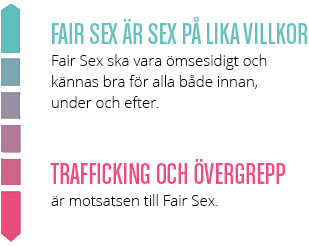
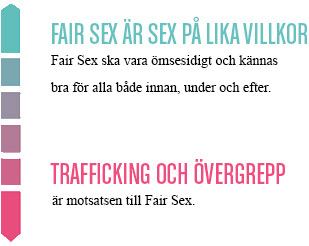
Ruined the look with Times new roman :-)

Changed region(s): [[0.1456, 0.2276, 0.9029, 0.4553], [0.1456, 0.7683, 0.699, 0.8537]]

diff --git a/css/gumby.css b/css/gumby.css
@@ -2080,7 +2080,9 @@ width:280px; */ padding-top: 0px; padding-left: 0px; padding-right: 20px; }
 
 .visitedChapter { background-color: white; color: #000; }
 
-.index_bg { background-color: #FFF; color: #313131; height: 100%; font-size: 14px; font-family: 'Open Sans', sans-serif; }
+.index_bg { background-color: #FFF; color: #313131; height: 100%; font-size: 14px; font-family: 'Times New Roman', Georgia, serif; }
+
+.index_bg p { font-family: 'Times New Roman', Georgia, serif; }
 
 .index_imgcenter { text-align: center; padding-right: 22px; }
 
@@ -2156,7 +2158,7 @@ width:280px; */ padding-top: 0px; padding-left: 0px; padding-right: 20px; }
 
 .index_container, .fairsex_container, .outro_container { background: url(../img/webpages/bgbig.jpg); background-repeat: no-repeat; background-position: center 0px; height: 77%; max-height: 660px; overflow: hidden; }
 
-.small_logotext { font-size: 9px; }
+.small_logotext { font-size: 10px; }
 
 .index_container a, .fairsex_container a, .outro_container a { color: #99035D; }
 
@@ -2202,7 +2204,7 @@ width:280px; */ padding-top: 0px; padding-left: 0px; padding-right: 20px; }
 
 .outro_container { height: 860px; max-height: 2000px; }
 
-.outro_links { padding-top: 10px; }
+.outro_links { padding-top: 30px; }
 
 .outroright { text-align: right; }
 @media only screen and (max-width: 960px) { .outroright { text-align: center; } }
@@ -2212,7 +2214,9 @@ width:280px; */ padding-top: 0px; padding-left: 0px; padding-right: 20px; }
 .outro_logos { display: inline; }
 @media only screen and (max-width: 960px) { .outro_logos { display: block; } }
 
-.agentbody_bg { background: url(../img/webpages/agent_bg.jpg); background-repeat: repeat-y; background-position: center; font-size: 12px; font-family: 'Open Sans', sans-serif; color: #000; }
+.agentbody_bg { background: url(../img/webpages/agent_bg.jpg); background-repeat: repeat-y; background-position: center; font-size: 14px; font-family: 'Times New Roman', Georgia, serif; color: #000; }
+
+.agentbody_bg p { font-family: 'Times New Roman', Georgia, serif; }
 
 .agent_bliagentleft { padding-top: 50px; font-size: 20px; line-height: 32px; }
 

diff --git a/sass/_custom.scss b/sass/_custom.scss
@@ -871,8 +871,11 @@ transform: scale(1,1);
   color:#313131;
   height:100%;
   font-size: 14px;
-  font-family: 'Open Sans', sans-serif;
+  font-family: 'Times New Roman', Georgia, serif;
 
+ }
+ .index_bg p {
+   font-family: 'Times New Roman', Georgia, serif;
  }
  .index_imgcenter {
   text-align: center;
@@ -1152,7 +1155,7 @@ background-position: center;
 
 }
 .small_logotext {
-  font-size: 9px;
+  font-size: 10px;
 }
 
 .index_container  a {
@@ -1266,7 +1269,7 @@ max-height: 2000px;
   
  }
  .outro_links{
-  padding-top: 10px;
+  padding-top: 30px;
 
    
  }
@@ -1293,11 +1296,14 @@ max-height: 2000px;
   background: url(../img/webpages/agent_bg.jpg);
   background-repeat: repeat-y;
   background-position: center;
-  font-size: 12px;
-  font-family: 'Open Sans', sans-serif;
+  font-size: 14px;
+  font-family: 'Times New Roman', Georgia, serif;
   color:#000;
   
 }
+ .agentbody_bg p {
+   font-family: 'Times New Roman', Georgia, serif;
+ }
 
 .agent_bliagentleft {
   padding-top: 50px;
